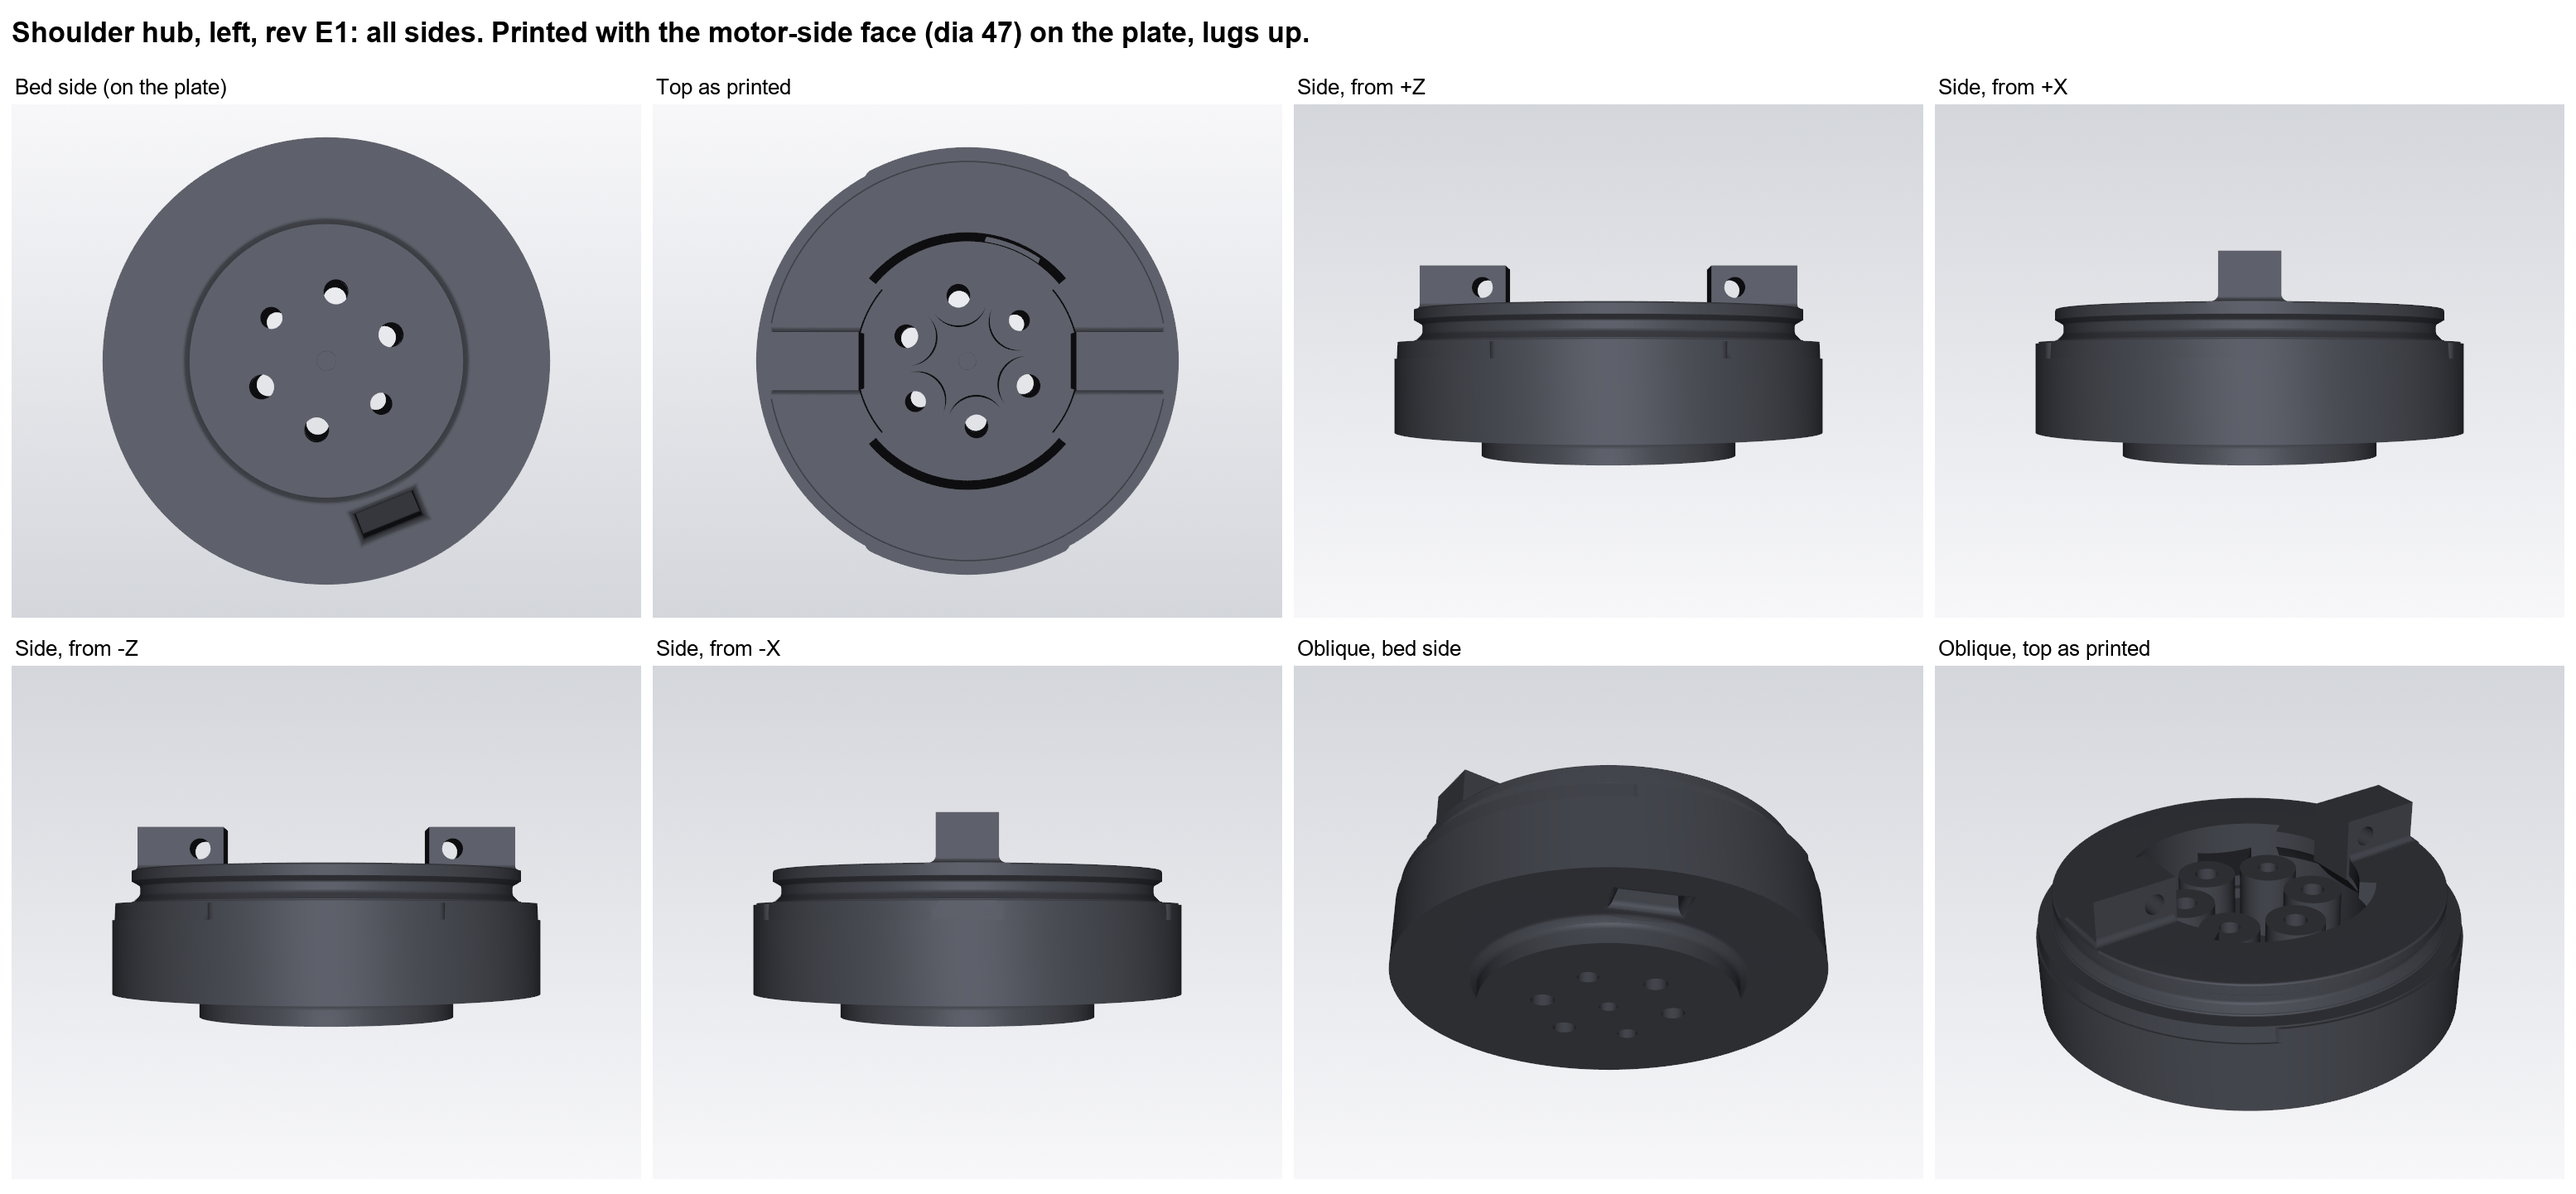
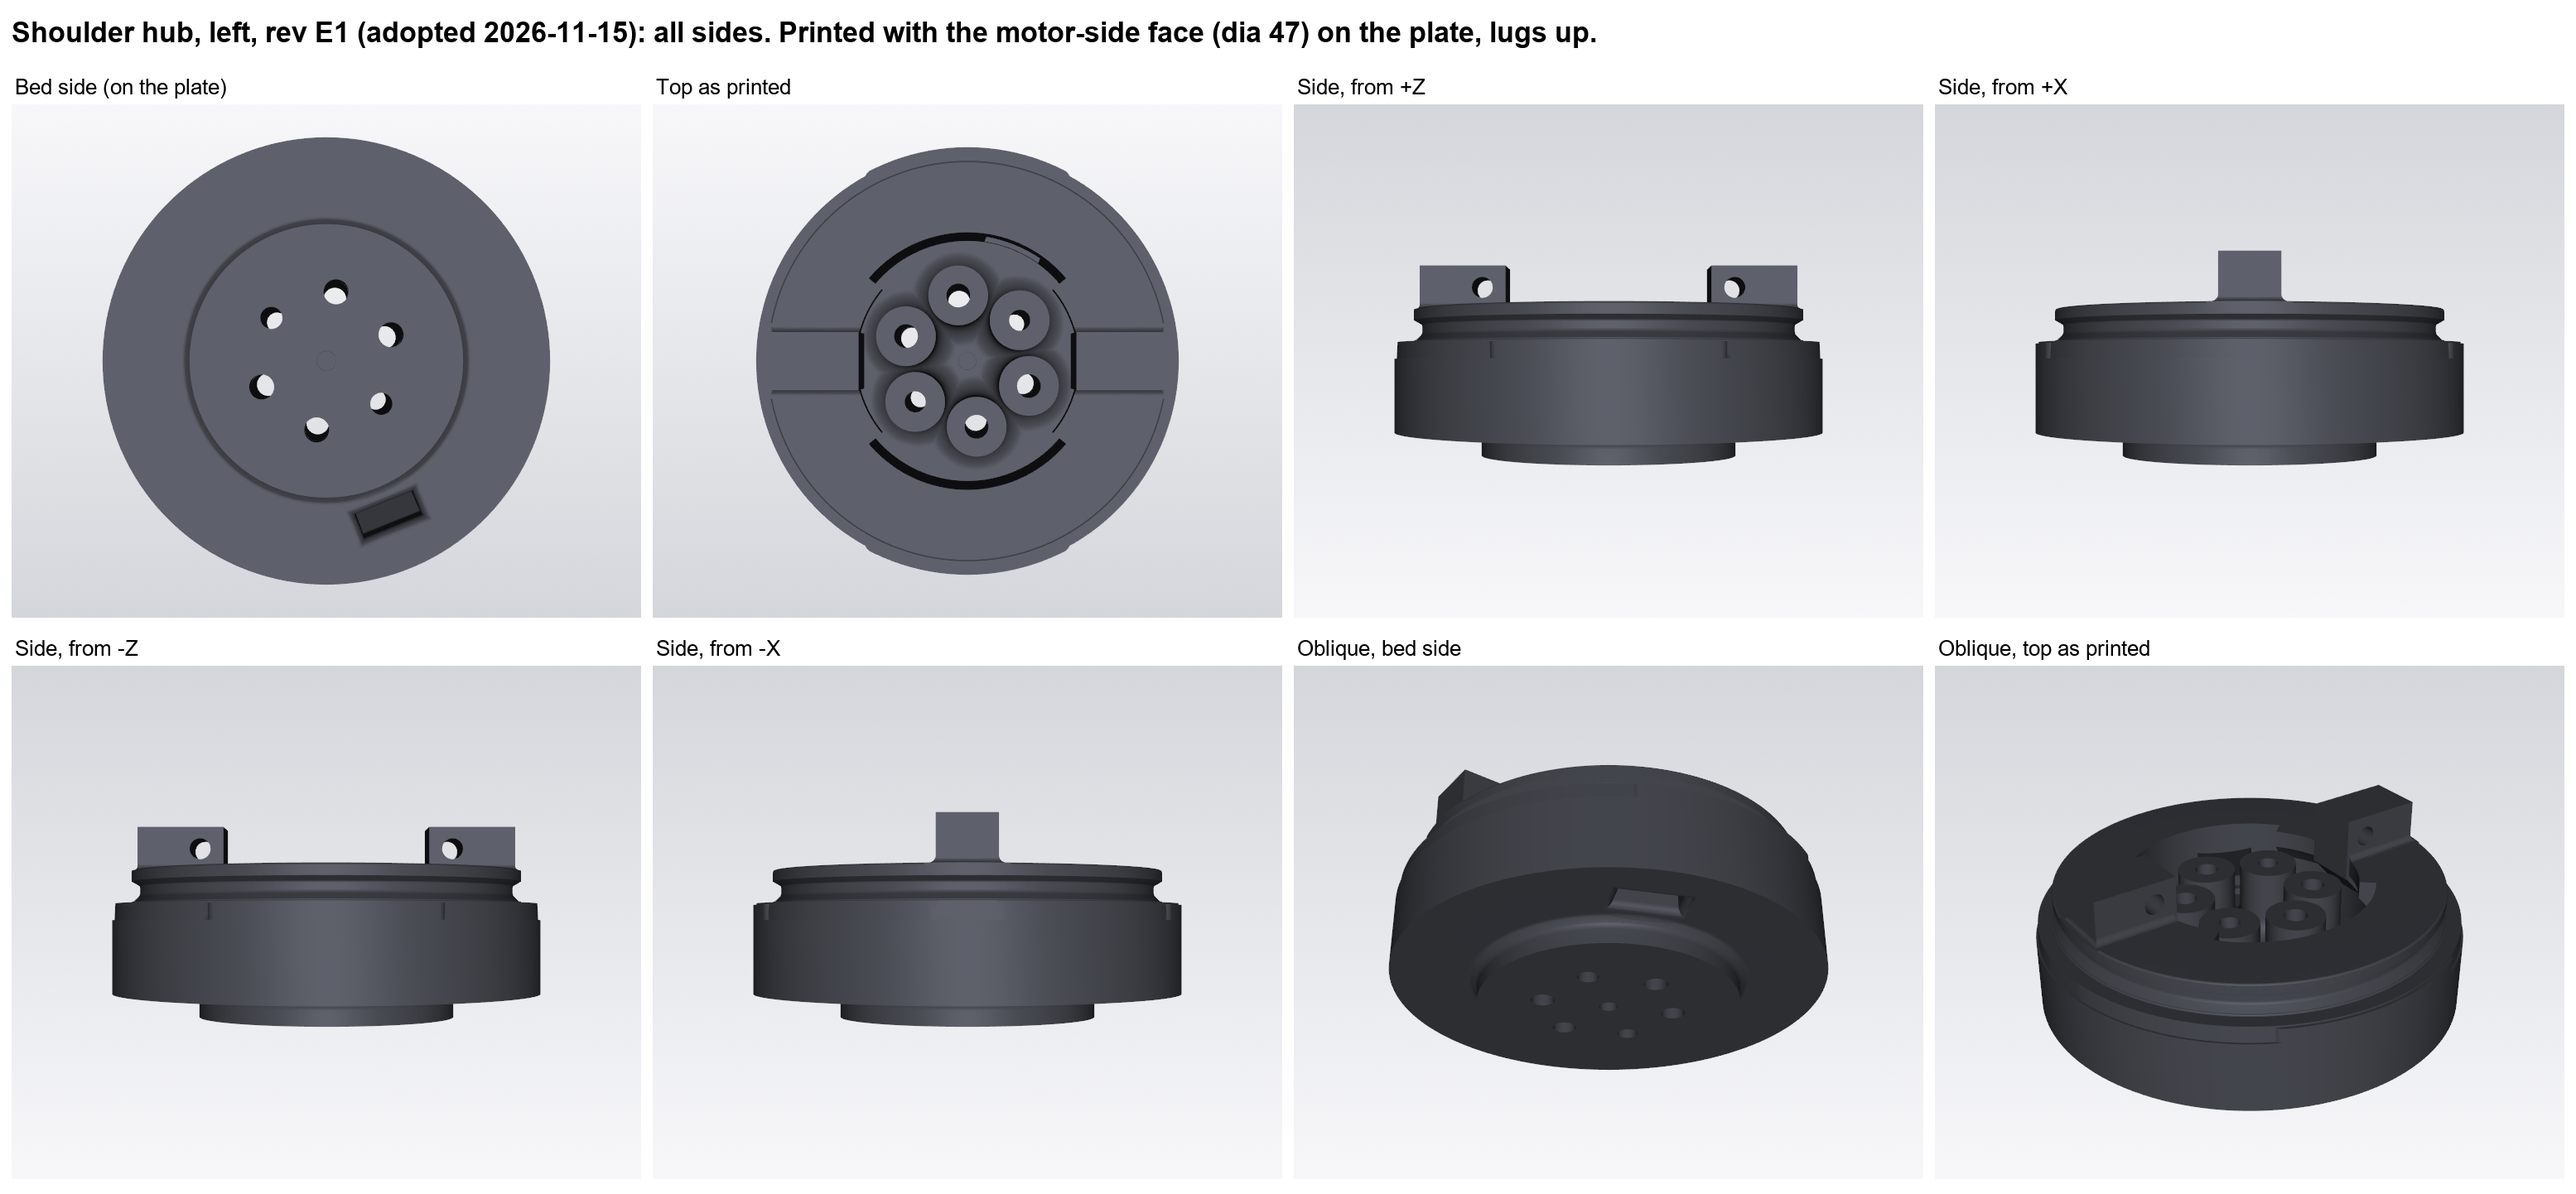
shoulder: hub rev E1 gate packet for the adopted shape (sheet, evidence, trial gate run notes)

Changed region(s): [[0.1559, 0.0, 0.6238, 0.0624], [0.3431, 0.2184, 0.4367, 0.4057]]

diff --git a/cad/scripts/shoulder/hub_evidence.py b/cad/scripts/shoulder/hub_evidence.py
@@ -19,23 +19,25 @@ PART = 'shoulder_hub_left'
 SPEC = REPO / 'cad' / 'shoulder' / 'shoulder_requirements.md'
 # safety factors, worst 0.5 mm ball, hub nodes only (hub_top_post.py, hub_lug_post.py, hub_stop2_post.py)
 FEA = [
-    dict(case='HUB_TOP', part=PART, bulk_sf=3.68, layer_sf=3.16, shear_sf=2.07, converged=False,
-         note='HUBB_Ah on the final rev E1 shape, global element 6.0 with the fine zones, Intel direct sparse; 1 mm ball 4.20 / 3.54 / 2.68. '
-              'Not converged by the rule: a finer global mesh passes the 14 GB limit of the direct solver, and on rev D3c7 the '
-              'same step (4.5 against 2.6) moved the layer figure from 0.91 to 0.65'),
-    dict(case='HUB_LUG', part=PART, bulk_sf=1.56, layer_sf=1.61, shear_sf=1.56, converged=False,
-         note='HUBL_G90YAWP_MAX, 1.19 M nodes; 1.56 is the governing figure (shear across the layers at the lug), entered as bulk. '
-              'Run on the first rev E1 shape; the later edits (hole edges, step fillet, head seats) do not touch the lugs, but the '
-              'run has not been repeated on this export'),
-    dict(case='HUB_ESTOP', part=PART, bulk_sf=3.10, layer_sf=3.10, converged=False,
-         note='HUBL_STOP6_ZB; 3.10 is the governing figure of the read-out, entered for both marks. Run on the first rev E1 shape, '
-              'not repeated on this export'),
+    dict(case='HUB_TOP', part=PART, bulk_sf=2.84, layer_sf=2.30, shear_sf=1.83, converged=True,
+         note='HUBB_Ah on the adopted shape (seats at Y 298.86, R 4 at the tubes), Intel direct sparse. The lowest of the hub-top '
+              'regions on the run with a 1.3 mm zone on the six tube-to-plate rounds (383k nodes): von Mises and layer tension round '
+              'the cable tunnel, shear at the rounds. Standard mesh (338k nodes): 1.95 in shear at the rounds, within 6 % on the '
+              '0.5 mm ball and 1 % on the 1 mm ball (2.07 against 2.06). Left out as a connector artefact: the tube walls within '
+              '3 mm of the head seats, where the screws are tied rigidly (shear 1.40 to 1.47)'),
+    dict(case='HUB_LUG', part=PART, bulk_sf=1.55, layer_sf=1.62, shear_sf=1.55, converged=False,
+         note='HUBL_G90YAWP_MAX on the adopted shape, 1.20 M nodes; 1.55 is the governing figure (shear across the layers at the lug), '
+              'entered as bulk; von Mises 2.66. Not repeated on a second mesh for this shape: the lugs are those of rev D3c7, whose mesh '
+              'study is in A_HUB_LUGS.md, and the figure moved by 0.01 across the four rev E1 shapes'),
+    dict(case='HUB_ESTOP', part=PART, bulk_sf=3.11, layer_sf=3.27, shear_sf=3.11, converged=False,
+         note='HUBL_STOP6_ZB on the adopted shape, 1.20 M nodes; 3.11 is shear across the layers, entered as bulk; von Mises 5.44. '
+              'Not repeated on a second mesh'),
 ]
 ACCESS = [dict(part=PART, insertion_clear=True, screws_reachable=True,
                method='by geometry, not a ray check: the six M4 heads sit on the tube ends in the open centre bore and take a straight '
-                      'driver from the arm side before the arm goes on; the arm thread compared this export with the released hub '
+                      'driver from the arm side before the arm goes on; the arm thread compared the first rev E1 export with the released hub '
                       'below Y 302 (identical) and checked its cable route (3.64 mm smallest clearance)',
-               notes='the RS02 output thread depth (7 mm on the drawing) is not measured on a real motor')]
+               notes='M4 x 30 with one washer goes 5.2 mm into the RS02; its holes bottom out at 6.5 to 7 mm (Joey, measured 2026-11-15)')]
 
 
 def main(export, out):

diff --git a/cad/reviews/shoulder/20261115_hub-rev-e1/README.md b/cad/reviews/shoulder/20261115_hub-rev-e1/README.md
@@ -1,17 +1,46 @@
 # Shoulder hub, left, rev E1: packet for the pre-print gate
 
-Pinned commit: 92cf1010d302f7062d9416299afc38c8690a0c99
+Pinned commit: 8656e20953206e64c06298a9ca8514df166d7058
 
 Not a passed gate. The requirements spec ([shoulder_requirements.md](../../../shoulder/shoulder_requirements.md)) is a draft,
 and the gate report is written only by `tools/cad/gate.py` once the spec is agreed.
 
-- **Design reviewed:** the rev E1 candidate export,
-  [shoulder_hub_left_revE1_candidate.STL](https://github.com/jaylamping/roark/blob/92cf1010d302f7062d9416299afc38c8690a0c99/cad/exports/shoulder/shoulder_hub_left_revE1_candidate.STL)
[1 lines of base64/hex data omitted]
-  `exports/shoulder/shoulder_hub_left.STL`, the path the evidence file names.
+- **Design reviewed:** hub rev E1 as adopted,
+  [shoulder_hub_left.STL](https://github.com/jaylamping/roark/blob/8656e20953206e64c06298a9ca8514df166d7058/cad/exports/shoulder/shoulder_hub_left.STL)
[1 lines of base64/hex data omitted]
 - **Picture sheet:** [shoulder_hub_left_sheet.png](shoulder_hub_left_sheet.png), eight views including the bed side
   (`cad/scripts/shoulder/part_sheet.py`). The gate looks for it at `prints/shoulder/shoulder_hub_left_sheet.png`.
 - **Evidence:** [evidence.json](evidence.json), written by `cad/scripts/shoulder/hub_evidence.py` from the runs in
-  `hardware/shoulder/study-20261111/checks/A_HUB_LUGS.md` ("Rev E1 candidate"). All three results are marked not
-  converged, with the reason in each note: the hub-top run has no finer mesh, and the lug and elbow-stop runs were made
-  on the first rev E1 shape and not repeated on this export.
+  `hardware/shoulder/study-20261111/checks/A_HUB_LUGS.md` ("Rev E1 as adopted"). The hub-top case is recorded as
+  converged (two meshes); the lug and elbow-stop cases pass their marks but are recorded as not converged, because they
+  were not repeated on a second mesh for this shape.
+- **Print file** (not in the repo until the gate passes): `cad/_wip/prints/shoulder/shoulder_hub_left_revE1.3mf`,
[1 lines of base64/hex data omitted]
+
+## Trial gate run (2026-11-15, holly-pc, in a scratch copy of `cad/`, no report kept)
+
+Made on the first rev E1 candidate (SHA-256 `1392a808…a190`, 63,410 triangles) and its print file, before the seats and
+the rounds changed; not repeated on the adopted shape.
+
+`gate.main(['shoulder_hub_left'], cad=<scratch cad>)` with the spec as drafted, the export above as
+`exports/shoulder/shoulder_hub_left.STL`, the staged 3MF (SHA-256 `aa4c7dd3…4a81`) and this sheet and evidence file.
+
+| Check | Result |
+|---|---|
+| Requirements agreed | FAIL: the spec is a draft |
+| Export, 3MF and picture sheet present | PASS |
+| 3MF settings | PASS: 6 settings match, all flagged or preset |
+| Evidence | FAIL on convergence only (all three results recorded as not converged); every figure clears its pass mark |
+| Mesh | **did not finish**, see below. `mesh_check.integrity_file` alone: watertight, 0 non-manifold edges, 0 zero-area faces, one body |
+| Support on visible faces, interference | not reached; need `hidden_by` and `mates` meshes |
+
+**Memory failure in the mesh check, for the tool's owner.** `tools/cad/mesh_check.py`, `thickness()` (the ray step:
+`RayMeshIntersector(m).intersects_location(c[s:s + 3000], -n[s:s + 3000], multiple_hits=False)`), called from `check()`
+by `gate.mesh_checks`. Export: 63,410 triangles, 3,170,584 bytes. Python 3.12 venv with numpy, scipy, trimesh, rtree and
+networkx; no embree. The process was run under a memory cap (`cad/scripts/shoulder/capped.py --mb N`):
+
+- cap 6144 MB: `numpy._core._exceptions._ArrayMemoryError: Unable to allocate 92.4 MiB for an array with shape (12112414,)`
+  in `trimesh/triangles.py` `points_to_barycentric`, peak 6124 MB;
+- cap 14336 MB: the same error, `Unable to allocate 231. MiB for an array with shape (30245707,)`, peak 14128 MB.
+
+So one chunk of 3000 rays reaches 12 to 30 million ray and triangle candidate pairs on this part. `mesh_check.py` was not changed.
